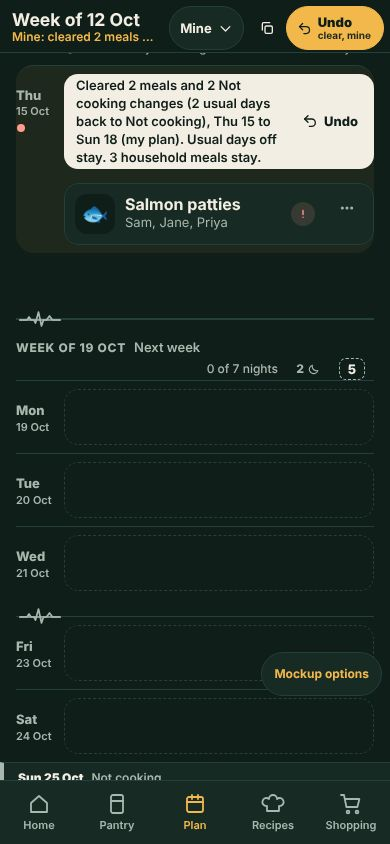
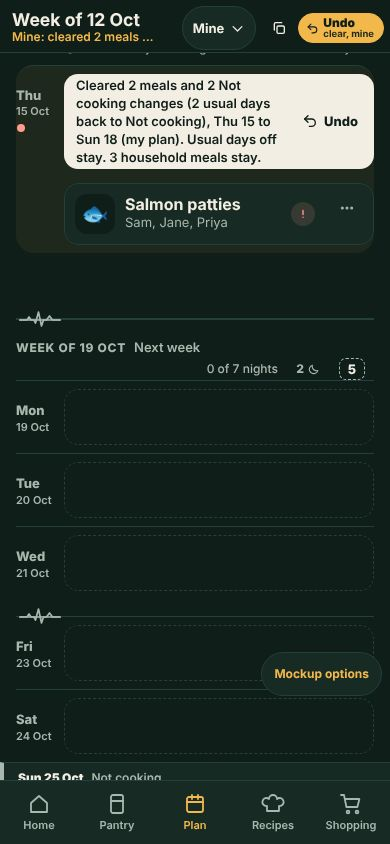
Plan UI phone: the in-place Undo of Copy last week and Clear week is a smaller chip, same green, 44 px touch target kept (decision 214)
Claude-Session: https://claude.ai/code/session_01RgAbEgCc7ErfkYzqzeX5Fx

Changed region(s): [[0.6769, 0.0, 0.9846, 0.0616], [0.4615, 0.0, 0.5846, 0.0616]]

diff --git a/fragments/plan-ui-review/index.html b/fragments/plan-ui-review/index.html
@@ -29,7 +29,7 @@
 <body><div class="wrap">
 <a class="back" href="../../">&lsaquo; All mockups</a>
 <h1>Plan UI review: desktop and phone</h1>
-<p><b>Latest, 13 October 2026 (voice, relayed): another person's plan is fully view only (no Hold, Add, Reserve or Add to buy, no exceptions; supersedes 204 and resolves 205); the blocked-hold question is dropped; a household meal can name its participants ("Sam, Jane, Priya"; none named = the whole household) and Clear week respects it (decisions 206 to 213).</b> <a href="#who206" style="color:var(--accent)">See it first</a>. <b>Before that, 13 October 2026 (typed, four answers): the filter option is "Household"; the long hold on "Week of ..." moves the list to today; Clear week acts on Mine or Household and never on the past; another person's meal opens read only (206 later removed the hold and add; decisions 201 to 205).</b> <a href="#who201" style="color:var(--accent)">See it first</a>. <b>Before that, 13 October 2026 (voice, relayed): who can act (past never; mine and Household yes; another person view only, with an eye), the two week counts are buttons that jump, Clear week also clears this week's changes to the usual days off, the Today pill is gone (long hold on the week label), Copy last week and Clear week are icons beside the cogwheel, five weeks in the ribbon, desktop untouched (decisions 190 to 199).</b> <a href="#who190" style="color:var(--accent)">See it first</a>. <b>Before that, 13 October 2026 (voice, relayed): the open night card offers only Ask AI and Surprise me; no Not cooking button, because swiping is how you mark a night Not cooking (decisions 187 to 189).</b> <a href="#open183" style="color:var(--accent)">See it first</a>. <b>Before that, 13 October 2026 (typed, with screenshots): tapping an open night opens the same light card as a Not cooking night: Ask AI, Surprise me and (until 187) Not cooking; no big empty sheet (decisions 183 to 186).</b> <a href="#open183" style="color:var(--accent)">See it first</a>. <b>Before that, 13 October 2026 (typed and voice, later still): the ECG marker is only where Not cooking days are hidden, opened days have none and fold back when you scroll on; the mixed held state and the nights count are settled (decisions 178 to 182).</b> <a href="#ecg178" style="color:var(--accent)">See it first</a>. <b>Before that, 13 October 2026 (voice and typed, later again): the bulk buttons show only when they apply, the week label row carries the Not cooking moon and open-night box counts, and Reserve reads Release once held, on the week and on each meal (decisions 168 to 177).</b> <a href="#wk168" style="color:var(--accent)">See it first</a>. <b>Before that, 13 October 2026 (spoken, later): the week summary strip is now two week-level bulk actions, Add to buy and Reserve, each with an in-place Undo; "use first" is dropped (decisions 159 to 167).</b> <a href="#wk159" style="color:var(--accent)">See it first</a>. <b>Before that, 13 October 2026 (live phone test, spoken): a Not cooking day opens a light panel, the swipe's Undo is 3 seconds, Not cooking is the muted grey of last week, an ECG marker on the divider line opens or closes collapsed Not cooking days, and the tear is on every drag, top and bottom edges only (decisions 154 to 158).</b> <a href="#nc154" style="color:var(--accent)">See it first</a>. <b>Before that, 13 October 2026 (01:55 Sydney): the open day is UAT's dashed box, a right swipe on it makes Not cooking, a duller accent, and the vanishing options are fixed (decisions 147 to 153).</b> <a href="#open147" style="color:var(--accent)">See it first</a>. <b>Before that, 13 October 2026 (01:44 Sydney): lift and shift is for every tile, straight from the week view, and the torn edge is only for the tile pulled out of the docked detail (decisions 142 to 146).</b> <a href="#lift142" style="color:var(--accent)">See it first</a>. <b>Before that, 13 October 2026 (later): the day ribbon is only there while a detail is open (decision 136, owner-stated); the week view has no ribbon.</b> <a href="#rib136" style="color:var(--accent)">See it first</a>. <b>Batch 1 of the 13 October 2026 phone live test is at the top of the phone sections: decisions 110 to 119</b> (<a href="#uat" style="color:var(--accent)">the UAT grid, the ribbon swap, the lift and the tear</a>). Batch 2 follows. <b>Revised 12 October 2026</b> after the owner's voice review. Nothing here is built in Kitchie. Decisions <b>85 to 109</b> are mostly <span class="own">owner-stated, 12 Oct 2026</span>; where he was unclear they are marked <span class="amb">ambiguous</span> and listed as open questions, not guessed. Written notes: <a href="../../docs/knowledge/jobs-to-be-done/plan-ui-review.md" style="color:var(--accent)">plan-ui-review.md</a>. Earlier decisions 63 to 84 are still proposals. <b>Latest (late 12 Oct):</b> 107 the day and its detail dock as one stack, 108 closing or dragging the tile brings the week back, 109 Clear week next to Copy last week. See <a href="#stack" style="color:var(--accent)">the stack</a> and <a href="#clear" style="color:var(--accent)">Clear week</a>.</p>
+<p><b>Latest, 14 October 2026 (voice): the in-place Undo on the Copy last week and Clear week buttons is a smaller chip, same green, still a 44 px touch target (decision 214).</b> <b>Before that, 13 October 2026 (voice, relayed): another person's plan is fully view only (no Hold, Add, Reserve or Add to buy, no exceptions; supersedes 204 and resolves 205); the blocked-hold question is dropped; a household meal can name its participants ("Sam, Jane, Priya"; none named = the whole household) and Clear week respects it (decisions 206 to 213).</b> <a href="#who206" style="color:var(--accent)">See it first</a>. <b>Before that, 13 October 2026 (typed, four answers): the filter option is "Household"; the long hold on "Week of ..." moves the list to today; Clear week acts on Mine or Household and never on the past; another person's meal opens read only (206 later removed the hold and add; decisions 201 to 205).</b> <a href="#who201" style="color:var(--accent)">See it first</a>. <b>Before that, 13 October 2026 (voice, relayed): who can act (past never; mine and Household yes; another person view only, with an eye), the two week counts are buttons that jump, Clear week also clears this week's changes to the usual days off, the Today pill is gone (long hold on the week label), Copy last week and Clear week are icons beside the cogwheel, five weeks in the ribbon, desktop untouched (decisions 190 to 199).</b> <a href="#who190" style="color:var(--accent)">See it first</a>. <b>Before that, 13 October 2026 (voice, relayed): the open night card offers only Ask AI and Surprise me; no Not cooking button, because swiping is how you mark a night Not cooking (decisions 187 to 189).</b> <a href="#open183" style="color:var(--accent)">See it first</a>. <b>Before that, 13 October 2026 (typed, with screenshots): tapping an open night opens the same light card as a Not cooking night: Ask AI, Surprise me and (until 187) Not cooking; no big empty sheet (decisions 183 to 186).</b> <a href="#open183" style="color:var(--accent)">See it first</a>. <b>Before that, 13 October 2026 (typed and voice, later still): the ECG marker is only where Not cooking days are hidden, opened days have none and fold back when you scroll on; the mixed held state and the nights count are settled (decisions 178 to 182).</b> <a href="#ecg178" style="color:var(--accent)">See it first</a>. <b>Before that, 13 October 2026 (voice and typed, later again): the bulk buttons show only when they apply, the week label row carries the Not cooking moon and open-night box counts, and Reserve reads Release once held, on the week and on each meal (decisions 168 to 177).</b> <a href="#wk168" style="color:var(--accent)">See it first</a>. <b>Before that, 13 October 2026 (spoken, later): the week summary strip is now two week-level bulk actions, Add to buy and Reserve, each with an in-place Undo; "use first" is dropped (decisions 159 to 167).</b> <a href="#wk159" style="color:var(--accent)">See it first</a>. <b>Before that, 13 October 2026 (live phone test, spoken): a Not cooking day opens a light panel, the swipe's Undo is 3 seconds, Not cooking is the muted grey of last week, an ECG marker on the divider line opens or closes collapsed Not cooking days, and the tear is on every drag, top and bottom edges only (decisions 154 to 158).</b> <a href="#nc154" style="color:var(--accent)">See it first</a>. <b>Before that, 13 October 2026 (01:55 Sydney): the open day is UAT's dashed box, a right swipe on it makes Not cooking, a duller accent, and the vanishing options are fixed (decisions 147 to 153).</b> <a href="#open147" style="color:var(--accent)">See it first</a>. <b>Before that, 13 October 2026 (01:44 Sydney): lift and shift is for every tile, straight from the week view, and the torn edge is only for the tile pulled out of the docked detail (decisions 142 to 146).</b> <a href="#lift142" style="color:var(--accent)">See it first</a>. <b>Before that, 13 October 2026 (later): the day ribbon is only there while a detail is open (decision 136, owner-stated); the week view has no ribbon.</b> <a href="#rib136" style="color:var(--accent)">See it first</a>. <b>Batch 1 of the 13 October 2026 phone live test is at the top of the phone sections: decisions 110 to 119</b> (<a href="#uat" style="color:var(--accent)">the UAT grid, the ribbon swap, the lift and the tear</a>). Batch 2 follows. <b>Revised 12 October 2026</b> after the owner's voice review. Nothing here is built in Kitchie. Decisions <b>85 to 109</b> are mostly <span class="own">owner-stated, 12 Oct 2026</span>; where he was unclear they are marked <span class="amb">ambiguous</span> and listed as open questions, not guessed. Written notes: <a href="../../docs/knowledge/jobs-to-be-done/plan-ui-review.md" style="color:var(--accent)">plan-ui-review.md</a>. Earlier decisions 63 to 84 are still proposals. <b>Latest (late 12 Oct):</b> 107 the day and its detail dock as one stack, 108 closing or dragging the tile brings the week back, 109 Clear week next to Copy last week. See <a href="#stack" style="color:var(--accent)">the stack</a> and <a href="#clear" style="color:var(--accent)">Clear week</a>.</p>
 
 <div class="sec"><div class="lbl">What am I looking at? (answers to your questions)</div>
 <dl class="glos card">

diff --git a/fragments/plan-ui-review/phone.css b/fragments/plan-ui-review/phone.css
@@ -374,10 +374,13 @@ select{font:inherit}
 .mc.lifted{opacity:.4;border-style:dashed}
 .pw-day.over{background:color-mix(in srgb,var(--accent) 18%,transparent);box-shadow:inset 0 0 0 2px var(--accent)}
 /* 109: Clear week, Undo that names its action, week actions menu */
-.flipundo.two{padding:0 12px 0 10px;gap:6px;min-height:44px}
+.flipundo.two{padding:0 9px 0 7px;gap:4px;min-height:30px;position:relative}
+.flipundo.two svg{width:13px;height:13px}
 .flipundo.two span{display:flex;flex-direction:column;line-height:1.05;text-align:left}
-.flipundo.two b{font-size:13px}
-.flipundo.two small{font-size:10px;font-weight:700;opacity:.92}
+.flipundo.two b{font-size:12px}
+.flipundo.two small{font-size:9.5px;font-weight:700;opacity:.92}
+/* Plan UI review 214 (owner-stated, 14 Oct 2026: the in-place Undo is too big/fat): the visible chip is 30 px high (was 44) in the same green; the 44 px touch target stays, as an invisible hit area around it. */
+.flipundo.two::before{content:"";position:absolute;left:0;right:0;top:50%;height:44px;min-width:44px;transform:translateY(-50%)}
 .cpy{align-items:center;gap:0}
 .hd small.fl{color:var(--accent)}
 .hd .cpy.pair .ib{width:38px}

diff --git a/docs/knowledge/jobs-to-be-done/plan-ui-review.md b/docs/knowledge/jobs-to-be-done/plan-ui-review.md
@@ -1196,3 +1196,32 @@ Same default files (`theme.css`, `phone.css`, `theme.js`, `data.js`, `status.js`
 ## Verification done (13 Oct, read only for others, participants)
 
 Headless Chromium, touch at 390 x 844 and 360 x 740, mouse at 1280 x 900, light and dark, reduced motion. Serial runs, all passing: **`plan-ui-readonly-check.mjs` 605 (new)**: A another person's meal in seven variants (default, `?ba=list`, `?ba=both`, a long list, the sheet, an old `?wo=show` link, a subset meal): every focusable control read for attributes and for names, the accessibility tree read, no `aria-keyshortcuts` for H or L, H, L, X and Shift X with the detail open and with a tile focused change nothing, the handlers called directly change nothing, the week of their plan has no Add to buy, Reserve or Release, no Copy or Clear in the header, a past meal stays read only, Mine and Household keep Hold N, Add N, the cart, the stepper, the week buttons, H and L and the ... menu; B named participants (the audience lines, one line and inside the tile at 360, the accessible name and title, who sees which meal, the dropdown counts, the sheet header); C Clear week (Mine leaves household meals and shows only what Sam is named in, Household removes household meals including named subsets and leaves Sam's own and the past, Undo restores exactly, `?cs=visible`, no Clear in another person's plan); D desktop unchanged (still "Everyone · 4 people", 13 meals, no participants, no page errors). **`plan-ui-household-check.mjs` 409** (D and E rewritten read only; Household reads "Household"; the Household Clear now removes four meals), `plan-ui-routine-check.mjs` 169, `plan-ui-scope-check.mjs` 310, `plan-ui-header-check.mjs` 404, `plan-ui-week-indicators-check.mjs` 204, `plan-ui-week-actions-check.mjs` 117, `plan-ui-week-release-check.mjs` 126, `plan-ui-open-day-check.mjs` 70, `plan-ui-not-cooking-check.mjs` 251. The older checks were adjusted only where they counted meals in Mine from the whole list (the dumplings are not in Mine) or expected the Friday of Mine to be empty after Clear. **Found while checking:** (1) the new check's first reading of "no button named Not cooking" caught the plain week's own "Show 1 hidden Not cooking day" and "2 nights not cooking. Go to the first one" buttons (status and navigation, not actions): the check now names them as the allowed exceptions; (2) the dropdown's second line is an initial, so the counts are read from the label. No page errors, no sideways scroll. Screenshots viewed (390 and 360, dark and light). Not verified on a real iPhone.
+
+# Seventeenth revision, 14 October 2026 (voice): the in-place Undo of Copy last week and Clear week is a smaller chip (decision 214)
+
+Owner (Arjan), by voice on 14 October 2026: the in-place Undo state of the **Copy last week** and **Clear week** icon buttons (beside the cogwheel, 194) is "too big" and "fat". **Owner-stated, 14 Oct 2026** marks his words; **Proposal** marks the design agent's choices where he was silent. Cite as "Plan UI review 214". Phone only: desktop is untouched, Kitchie is not modified.
+
+His direction: keep the green; make the Undo chip visibly smaller for both buttons; do not change the un-flipped icon button; do not change any other Undo control unless it is the same component (then flag it); keep a 44 px touch target; the header must still not overflow at 360 and 390 with the Undo showing.
+
+Mockup: [phone.html](../../../fragments/plan-ui-review/phone.html) (`.flipundo.two` in `phone.css`; try Copy last week and Clear week, Mine and Household, or `?demo=scope`). Screenshots in `img/` that show the flipped header are regenerated (`tools/plan-ui-shots.mjs`). Checks: `tools/plan-ui-header-check.mjs` (new E214 checks), `plan-ui-routine`, `plan-ui-week-actions`, `plan-ui-household`, `plan-ui-readonly`.
+
+## Decisions
+
+214. **The flipped Undo is a smaller chip, same green, same 44 px touch target (owner-stated: too big, fat; keep the green; visibly smaller for both).** `.flipundo.two` only (the one component that both Copy last week and Clear week flip into; `pill()` in `phone.js` draws it and nothing else uses it). **Visible chip 30 px high (was 44)**; padding 0 9px 0 7px (was 0 12px 0 10px), gap 4 (was 6), icon 13 px (was 15), "Undo" 12 px (was 13), the action word 9.5 px (was 10). Colours untouched (`--accent` fill, `--on-accent` text, so dark and light both keep their green). **Widths** (390 and 360 alike): Copy 67 px (was 79), Clear mine 86 (was 98), Clear household 112 (was 126). **The 44 px target stays** as an invisible `::before` hit area (44 px high, at least 44 px wide, centred on the chip), so the tap area is the same as before while the drawn chip is 14 px shorter. The un-flipped icon buttons (`.ib`, 38 x 44) are not touched. **Proposal:** because the chip is right-anchored and narrower, the flipped Copy chip's left edge now sits about 15 px right of the icon it replaced (it was within 4 px by coincidence of width); it stays centred on the same row. The header check's "same place" test now allows 16 px, and checks the chip is centred on the icon. **Other Undo controls were checked and not changed:** the swipe "Not cooking" Undo and the day-note Undo (`.unote button`), the banner and pill variants (`.ubn`, `.upill`), and the week bulk-action Undo (`.wab.undo`) are separate classes and separate markup, so none shares the component; nothing is flagged for shared use. The ?u=flip option of 101 draws the same `pill()`, so it gets the smaller chip too, as it is the same flipped header button.
+
+## Supersession notes (14 Oct, smaller Undo chip)
+
+- **194** and **203** (the flip into Undo, its words, the width rules): the behaviour, the words and the header overflow rules stand; only the chip's size changed (214). The `.hd.flipped` max-widths were left as they were (they were sized for the larger chip, so there is now a little more room, never less).
+
+## Open questions (new, 14 Oct, smaller Undo chip)
+
+- **Chip size (214, Proposal):** 30 px high with 12 px and 9.5 px type. If he still finds it heavy, the next step is the same chip without the second line (the action word), at about 24 px high; cost low, but "Undo, what?" is then only in the sub line and the accessible name. Cost of a wrong guess now: one CSS rule.
+- Carried forward untouched: every open question of the earlier revisions.
+
+## What loads (DESIGN.md section 6), 14 Oct, smaller Undo chip
+
+Same default files, concatenated as served, `gzip -9`, KB = 1000 bytes: main (8c2c292) **206.04 KB, 59.97 KB gzipped**; this branch **206.44 KB, 60.09 KB gzipped: up 0.40 KB uncompressed, up 0.12 KB gzipped** (one CSS rule block and its comment). Nothing new is loaded or deferred.
+
+## Verification done (14 Oct, smaller Undo chip)
+
+Headless Chromium, touch at 390 x 844 and 360 x 740, mouse at 1280 x 900 (header check), light and dark, reduced motion. Measured the flipped chip for Copy and Clear, Mine and Household, in both schemes at 390 and 360: heights 44 to 30, no horizontal overflow of the page or the header, hit tests pass 21 px above and below the chip centre. Serial runs, all passing: `plan-ui-header-check.mjs` 432 (E214 checks added, the "same place" tolerance widened to 16 px), `plan-ui-routine-check.mjs` 169, `plan-ui-week-actions-check.mjs` 117, `plan-ui-household-check.mjs` 409, `plan-ui-readonly-check.mjs` 605.
